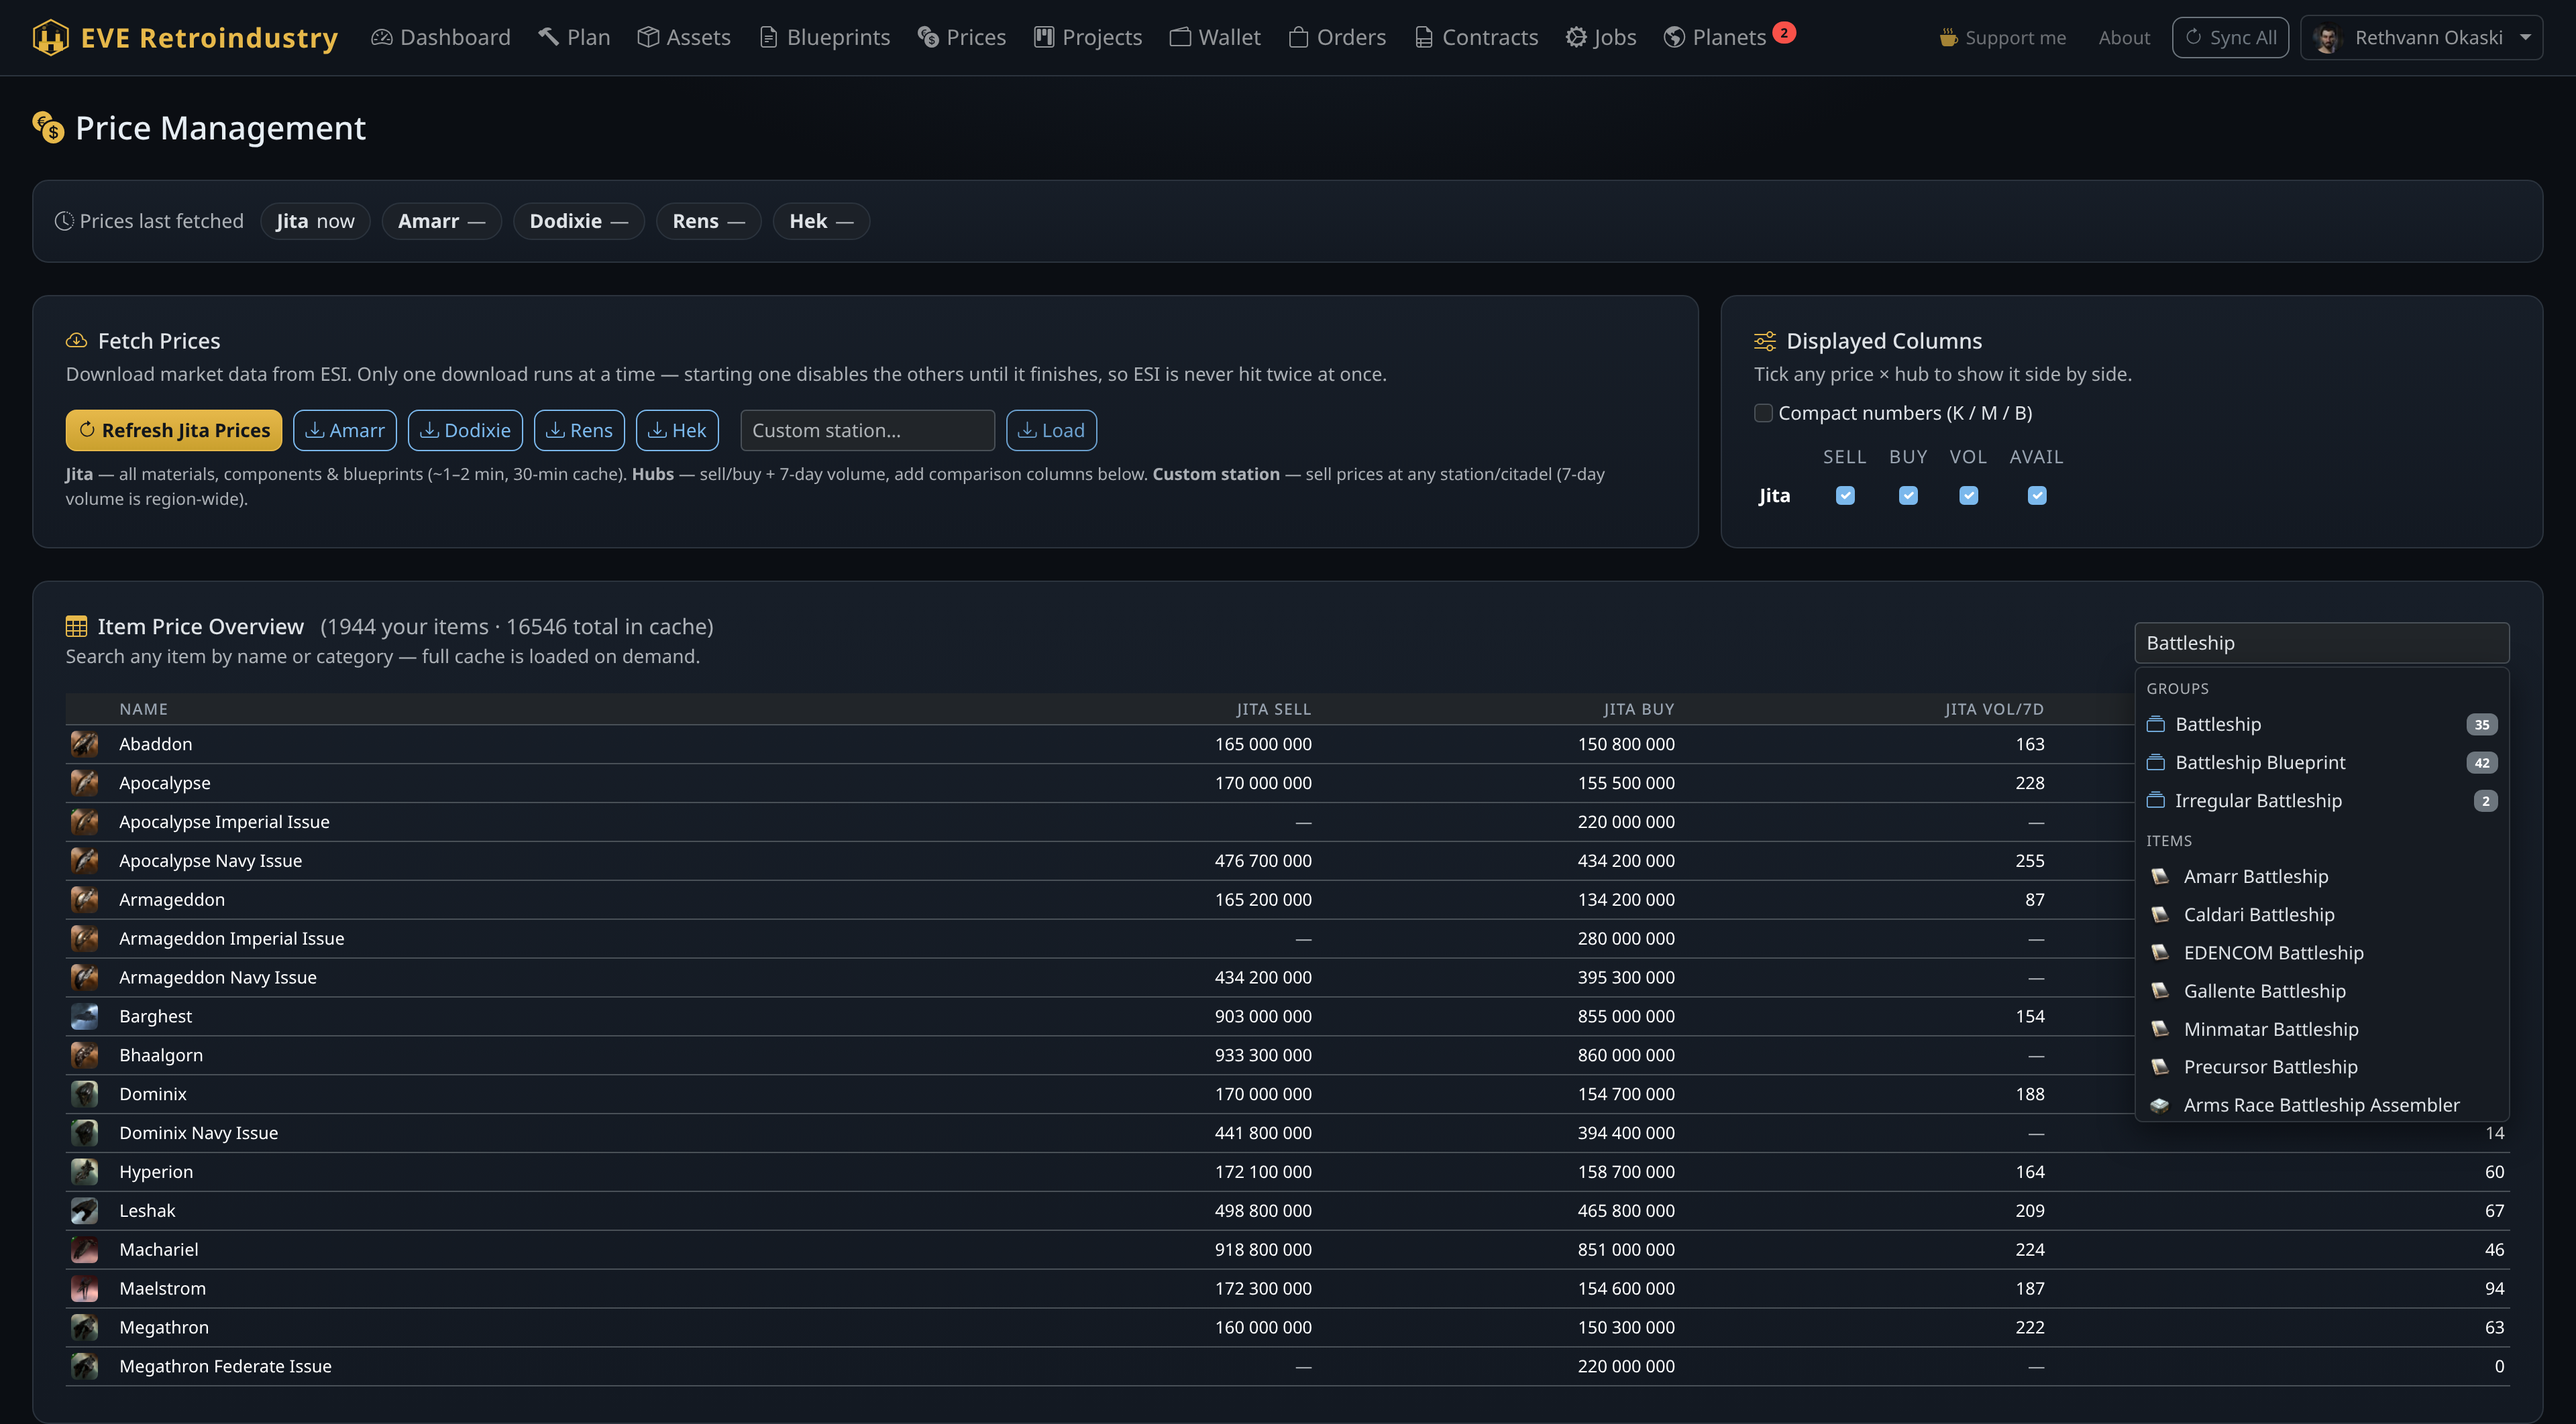
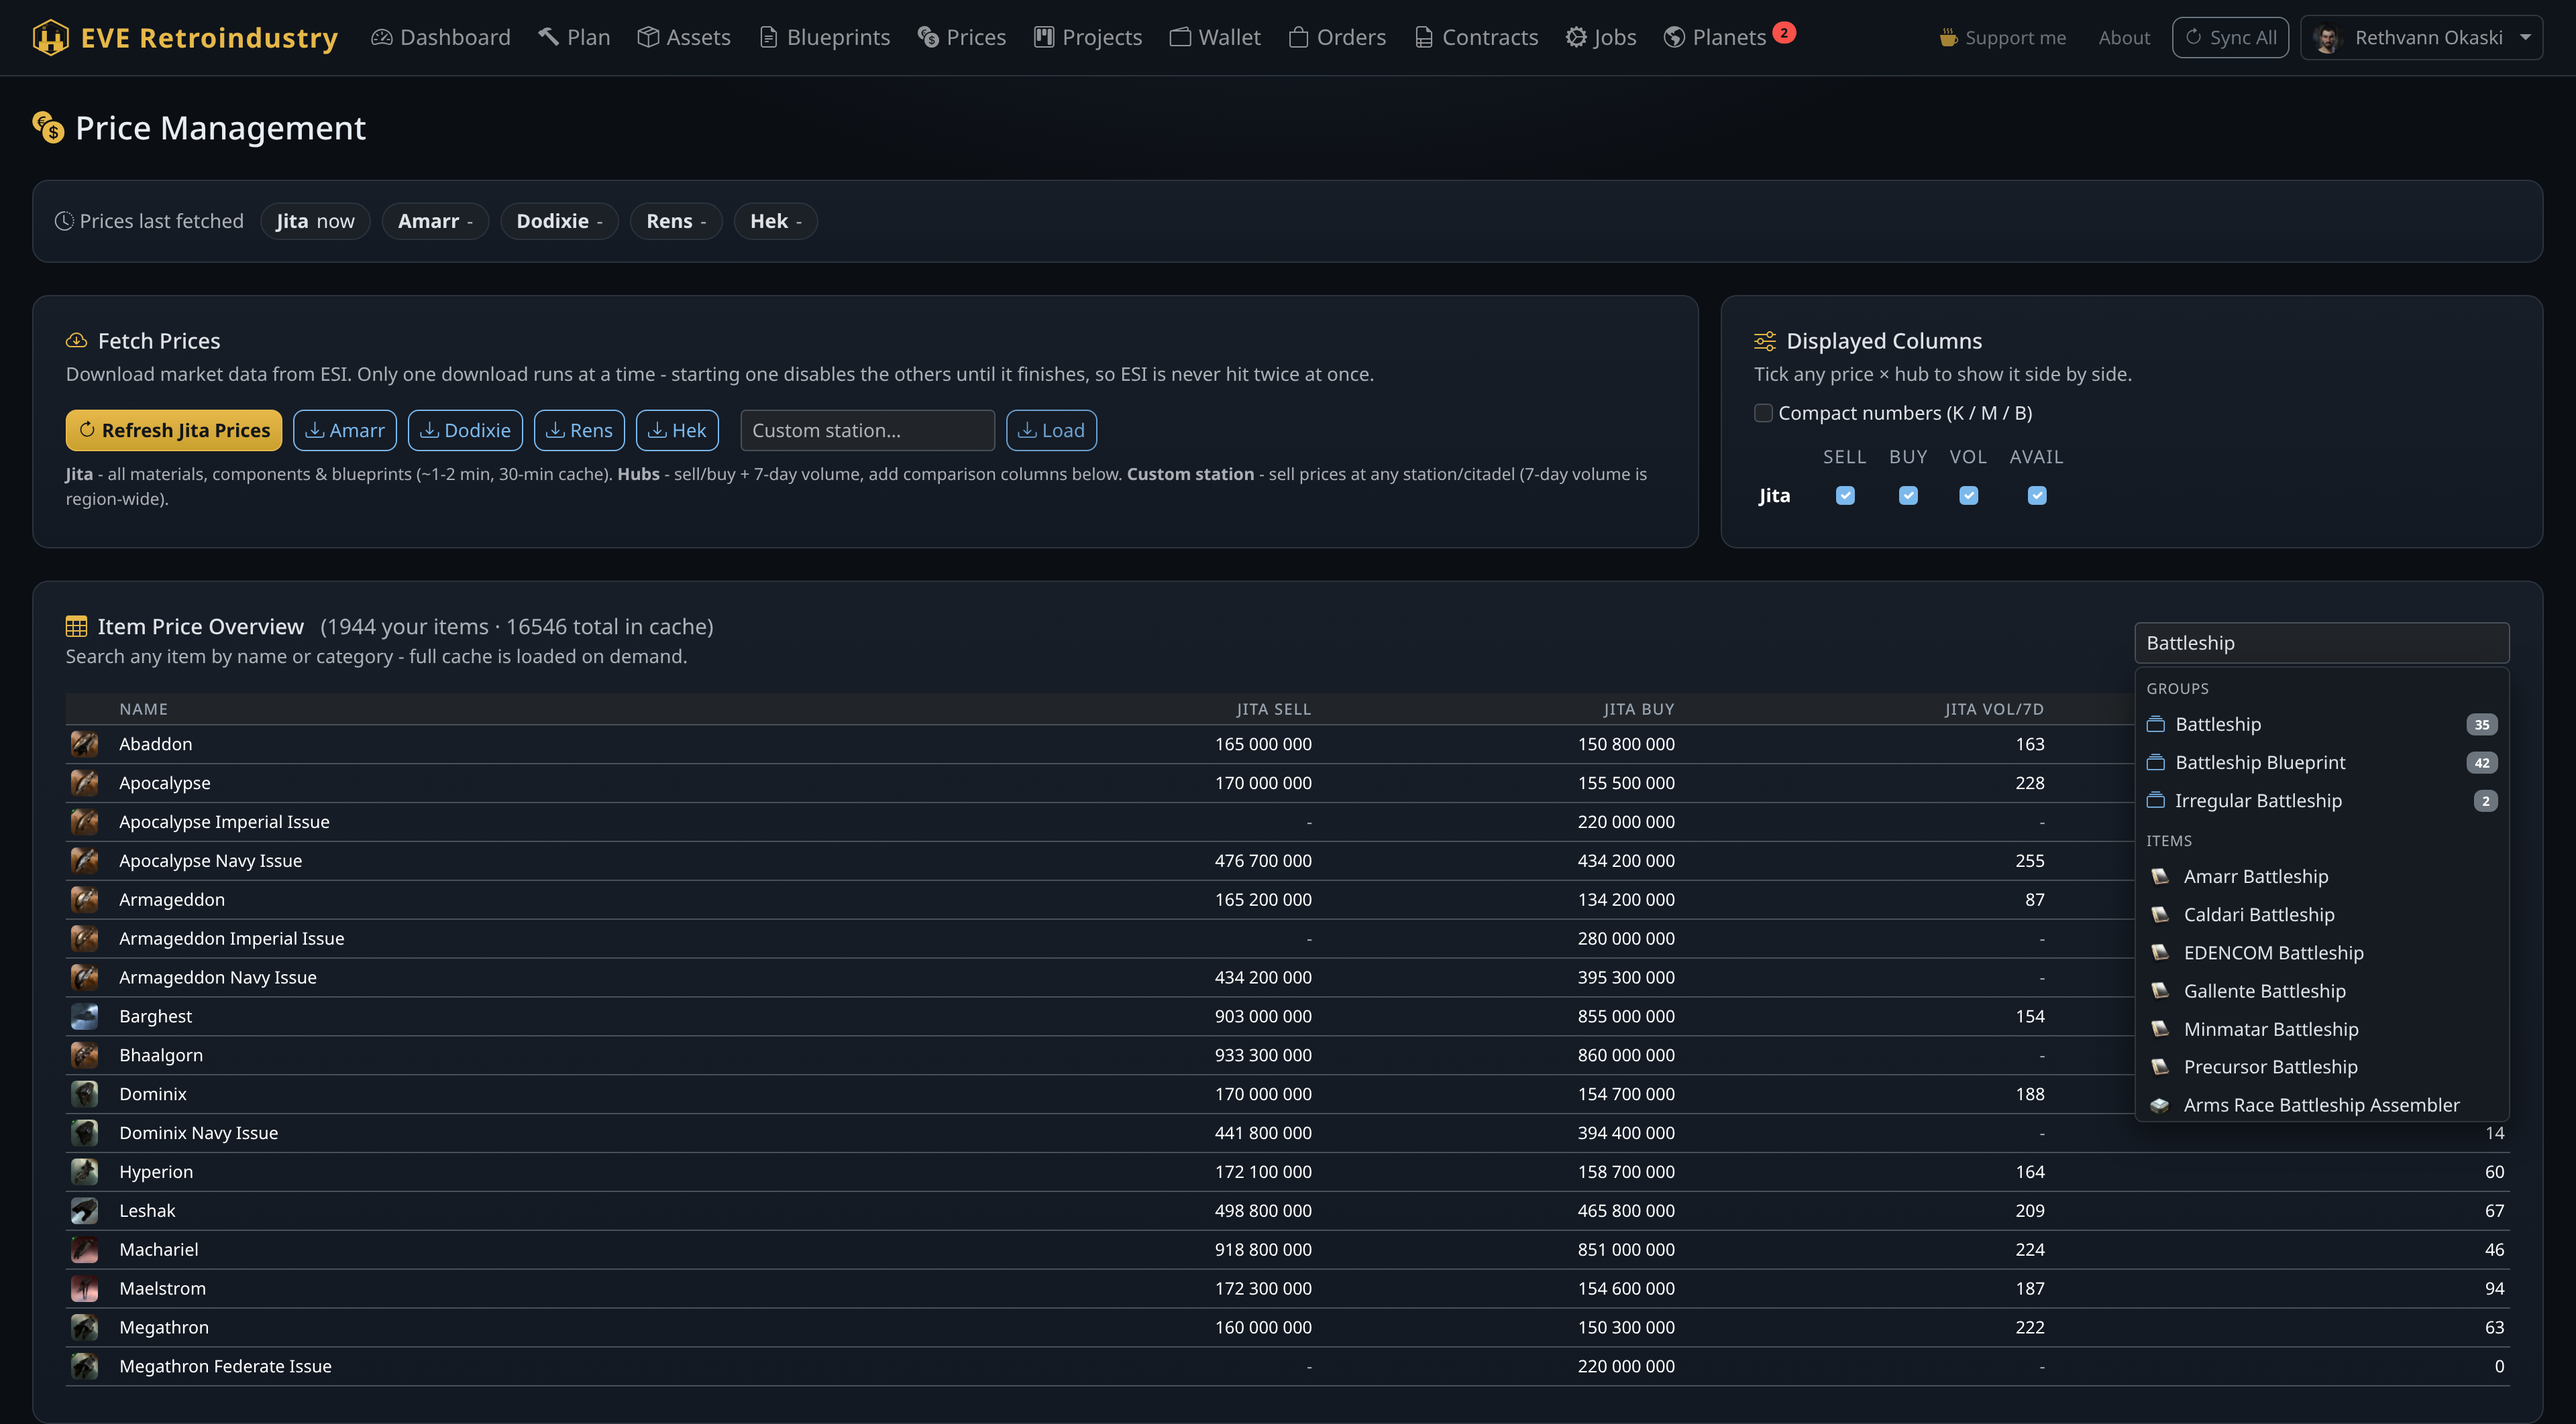
Release 0.10.0: alliance contracts, one filter bar, self-filling index
APP_VERSION 0.10.0 (Android versionCode 1000, up from 922).

Headline: alliance contracts, which the app previously believed ESI did not expose.
They arrive through the corporation endpoint, are indexed locally so they can be
searched by the items inside them, and the index fills itself in the background.

Everything since 0.9.22:
- Contracts: new Alliance tab; one shared filter bar and click-to-sort on all three
  tabs; status buckets so the Corporation tab no longer ships 2914 rows (4.4 MB) at
  once; rows labelled by who the contract is assigned to; the corporation token is
  chosen by whether it can actually read contracts
- Alliance index: contents only for contracts you can still accept, spread over
  every capable character, stored as it goes, distinguishing the game server's
  throttle from a vanished contract from a real ESI rate limit; it finishes in one
  pass and says how far an item search can see while it works
- Plan: the contract price can come from public contracts, alliance contracts, or
  whichever is cheaper
- Wallet + Assets: corporations' own names for their wallet and hangar divisions
- A clearer "new version" badge, an ALLIANCE badge on shared contracts, 0600/0700
  on the database and data directory, the SDE build number stamped into the bundle
  and shown in About, and "1 type" instead of "1 types"
- No long dashes anywhere in the app: 1214 of them became plain hyphens
[…]

diff --git a/scripts/gen_demo_screenshots.py b/scripts/gen_demo_screenshots.py
@@ -4,7 +4,8 @@
 Takes the local (real) eve_cache.db, builds an anonymized copy - fake pilot
 names/ids, fake corporations, generated wallet balances, renamed private
 structures - then starts the app against that copy and screenshots the
-Dashboard, Production Plan and Assets pages into docs/screenshots/.
+Dashboard, Production Plan, Assets, Alliance contracts and more into
+docs/screenshots/.
 
 Nothing traceable to the real account ends up in the images: item/blueprint
 structure is kept so the screenshots look realistic, but every identifying
@@ -302,6 +303,55 @@ def main() -> None:
                       list(names.items()))
         c.commit(); c.close()
 
+    # Alliance contracts come from ESI at runtime; the page itself only needs the
+    # local index, so seed a small anonymised one. Names here are invented on
+    # purpose - never ship real alliance data in a screenshot.
+    def _seed_alliance_contracts(db_path: str) -> None:
+        import sqlite3 as _sq
+        import time as _t
+        from app.web import contracts_helper as _ch
+        ALLY = 99000001
+        rows = [
+            # cid, type, price, reward, coll, vol, title, station, issuer, corp, type_id, qty
+            (9001, "item_exchange", 1_240_000_000, 0, 0, 118_000, "Ishtar - fitted, rigs in cargo",
+             "Ourapheh V - Moon 3 - Trade Post", "Vera Nightfall", "Retro Logistics.", 12005, 1),
+            (9002, "item_exchange", 86_000_000, 0, 0, 2_400, "T2 ammo bundle - 4 types",
+             "Ashab VII - Trade Hub", "Kel Sarrin", "Retro Logistics.", 12608, 5000),
+            (9003, "courier", 0, 42_000_000, 1_100_000_000, 335_000, "Ashab -> Ourapheh, 6 jumps",
+             "Ashab VII - Trade Hub", "Dax Orlenard", "Deep Space Freight", 0, 0),
+            (9004, "item_exchange", 315_000_000, 0, 0, 27_500, "Hulk - mining fit",
+             "Ashab IV - Refinery", "Mira Vex", "Orehaulers United", 22544, 1),
+            (9005, "auction", 0, 0, 0, 5, "Faction BPC lot - starting bid",
+             "Ourapheh V - Moon 3 - Trade Post", "Sen Talvar", "Retro Logistics.", 12005, 1),
+        ]
+        c = _sq.connect(db_path)
+        _ch.ensure_alliance_contract_tables(c)
+        now = _t.time()
+        for (cid, kind, price, rew, coll, vol, title, where, issuer, corp, tid, qty) in rows:
+            c.execute(
+                "INSERT OR REPLACE INTO alliance_contracts (contract_id, alliance_id,"
+                " source_corp_id, type, status, price, reward, collateral, buyout, volume,"
+                " date_issued, date_expired, days_to_complete, title, start_location_id,"
+                " end_location_id, start_name, end_name, issuer_id, issuer_corp_id,"
+                " issuer_name, issuer_corp_name, for_corp)"
+                " VALUES (?,?,?,?,?,?,?,?,?,?,?,?,?,?,?,?,?,?,?,?,?,?,?)",
+                (cid, ALLY, 98000001, kind, "outstanding", price, rew, coll, 0, vol,
+                 "2026-08-18T09:00:00Z", "2026-09-14T09:00:00Z", 0, title,
+                 60003760, 0, where, "", 2100000000 + cid, 98000002, issuer, corp, 0))
+            if tid:
+                c.execute("INSERT INTO alliance_contract_items (contract_id, type_id,"
+                          " quantity, is_included, is_bpc) VALUES (?,?,?,?,?)",
+                          (cid, tid, qty, 1, 0))
+        c.execute("INSERT OR REPLACE INTO alliance_contract_meta (alliance_id, indexed_at,"
+                  " contract_count) VALUES (?,?,?)", (ALLY, now, len(rows)))
+        c.execute("CREATE TABLE IF NOT EXISTS corp_alliance_cache (corporation_id INTEGER"
+                  " PRIMARY KEY, alliance_id INTEGER, cached_at REAL)")
+        c.execute("INSERT OR REPLACE INTO corp_alliance_cache VALUES (?,?,?)",
+                  (98000001, ALLY, now))
+        c.commit(); c.close()
+
+    _seed_alliance_contracts(demo_db)
+
     _seed_planet_names(demo_db)
 
     @m.app.get("/demo/assetsshot")
@@ -375,6 +425,7 @@ def main() -> None:
         "orders":          f"http://127.0.0.1:{PORT}/orders?char=all",
         "prices":          f"http://127.0.0.1:{PORT}/demo/pricesshot",
         "planets":         f"http://127.0.0.1:{PORT}/planets",
+        "alliance-contracts": f"http://127.0.0.1:{PORT}/contracts/alliance?alliance=99000001",
     }
     HEIGHT = {"assets": 1750}
     VTB = {"assets": 13000, "prices": 12000}

diff --git a/app/web/main.py b/app/web/main.py
@@ -1,7 +1,7 @@
 """FastAPI web application for EVE Retroindustry."""
 from __future__ import annotations
 
-APP_VERSION = "0.9.22"
+APP_VERSION = "0.10.0"
 
 import asyncio
 import datetime

diff --git a/README.md b/README.md
@@ -15,7 +15,7 @@ A local industry calculator for EVE Online. Runs as a web app on your machine - 
 - **Multi-character Dashboard** - log in any number of alts via EVE SSO; see all characters at a glance with portrait, corporation, current docked location, the skill in training with a live countdown, asset count, and estimated net worth. A **Total available cash** tile sums wallet ISK across every character
 - **Production Planner** - enter any ship or component, pick a station, get a full bill of materials with Jita buy/sell prices, your asset coverage, manufacturing job time and fees (EIV × SCI × facility tax × SCC), profit vs. market and vs. stock, and the cheapest make-vs-buy decomposition. Inputs can be priced at **Jita sell** (instant-buy) or **Jita buy** (buy orders, how manufacturers actually source), and the **make-vs-buy optimiser weighs job install fees** - so it only builds a component when building genuinely wins
 - **Blueprint Library** - full character (and alt) blueprint list with ME/TE levels, BPO vs BPC, runs remaining, organised by station and container
-- **Asset Tracking** - character + corporation inventory grouped by location and container (incl. all corp hangar divisions), with estimated ISK value per stack and per station
+- **Asset Tracking** - character + corporation inventory grouped by location and container (incl. all corp hangar divisions, under the corporation's own names for them), with estimated ISK value per stack and per station. Assembled ships open up into an in-game style fitting layout - high / mid / low / rigs / drone bay / cargo
 
 ![Production Plan - Raven (ME 10 / TE 20)](docs/screenshots/production-plan.png)
 
@@ -37,8 +37,12 @@ A local industry calculator for EVE Online. Runs as a web app on your machine - 
 
 ![Planetary Interaction - colonies, extractor timers and factory chains](docs/screenshots/planets.png)
 
-- **Contracts** - browse your own **personal + corporation** contracts, plus a **public contract browser**: index a whole region once, then search it locally by item, type, or price (ESI exposes no contract search, so the region is fully indexed into a local cache). Public contract prices can be pulled straight into the Production Planner for a side-by-side profit comparison against market prices
-- **Wallet** - personal and corporation wallet balances
+- **Contracts** - **personal, corporation and alliance** contracts side by side, plus a **public contract browser**. Every tab shares the same filter bar in the spirit of the in-game contract search: item inside the contract, type, status, price / reward / collateral / volume bounds, location, issuer, title, days left, "hide my own", and click-to-sort columns
+- **Alliance contracts** - the contracts your alliance offers, which is not something ESI advertises: they arrive through the corporation endpoint, and the app indexes them locally so you can search **by the items inside them**. It fills itself in the background (contents for open contracts only, spread over every character that can read them) and says how far the search can see while it works. Contract prices - public **or** alliance, or whichever is cheaper - feed straight into the Production Planner's profit comparison
+
+![Alliance contracts - the whole alliance's offers, searchable by item](docs/screenshots/alliance-contracts.png)
+
+- **Wallet** - personal and corporation wallet balances, per corporation wallet division, using the corporation's **own division names** where it has set them
 - **In-app updates** - check for new releases and apply them without leaving the app
 - **System tray** - runs in the system tray; right-click for **Open App** and **Quit**
 
